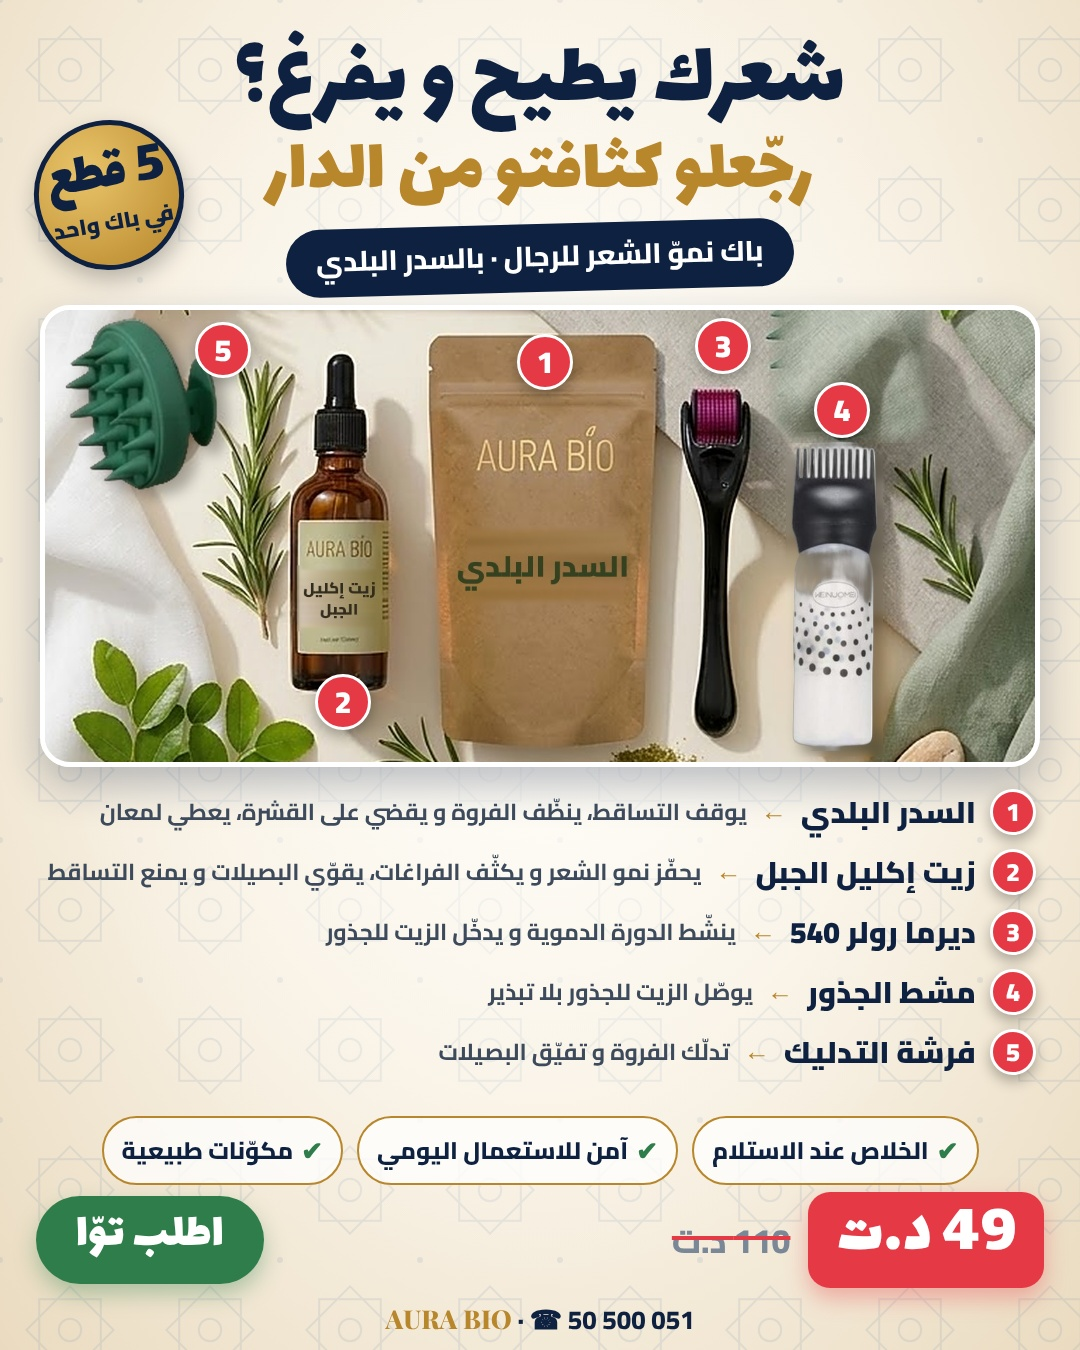
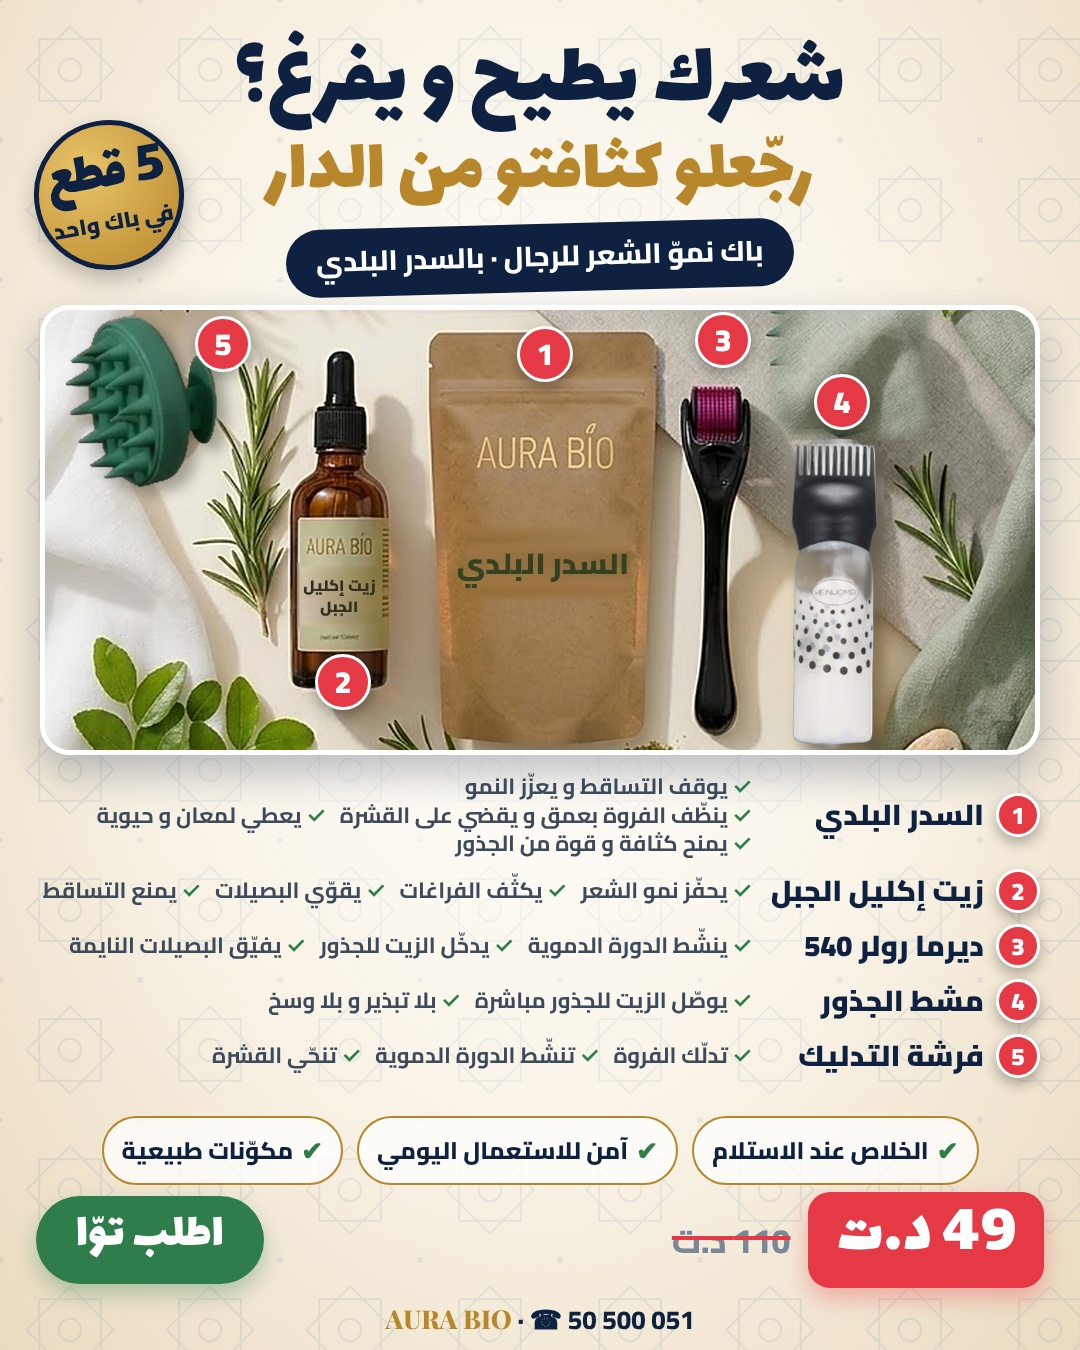
Real-kit static: full benefit list per product (check marks), photo resized to fit
Claude-Session: https://claude.ai/code/session_01FhwxWW9SZQzQKUB1AtjoA4

diff --git a/src/statics/RealPackAd.tsx b/src/statics/RealPackAd.tsx
@@ -421,7 +421,7 @@ const KitPhoto: React.FC = () => (
     style={{
       position: "relative",
       margin: "0 40px",
-      height: 462,
+      height: 450,
       borderRadius: 30,
       overflow: "hidden",
       border: `5px solid ${colors.white}`,
@@ -445,11 +445,41 @@ const KitPhoto: React.FC = () => (
 
 // The 5 pieces: number, name, benefit, and where the number sits on the photo
 const KIT_ITEMS = [
-  { n: 1, name: "السدر البلدي", benefit: "يوقف التساقط، ينظّف الفروة و يقضي على القشرة، يعطي لمعان", x: 500, y: 52 },
-  { n: 2, name: "زيت إكليل الجبل", benefit: "يحفّز نمو الشعر و يكثّف الفراغات، يقوّي البصيلات و يمنع التساقط", x: 298, y: 392 },
-  { n: 3, name: "ديرما رولر 540", benefit: "ينشّط الدورة الدموية و يدخّل الزيت للجذور", x: 678, y: 36 },
-  { n: 4, name: "مشط الجذور", benefit: "يوصّل الزيت للجذور بلا تبذير", x: 797, y: 100 },
-  { n: 5, name: "فرشة التدليك", benefit: "تدلّك الفروة و تفيّق البصيلات", x: 178, y: 40 },
+  {
+    n: 1,
+    name: "السدر البلدي",
+    benefits: ["يوقف التساقط و يعزّز النمو", "ينظّف الفروة بعمق و يقضي على القشرة", "يعطي لمعان و حيوية", "يمنح كثافة و قوة من الجذور"],
+    x: 500,
+    y: 44,
+  },
+  {
+    n: 2,
+    name: "زيت إكليل الجبل",
+    benefits: ["يحفّز نمو الشعر", "يكثّف الفراغات", "يقوّي البصيلات", "يمنع التساقط"],
+    x: 298,
+    y: 372,
+  },
+  {
+    n: 3,
+    name: "ديرما رولر 540",
+    benefits: ["ينشّط الدورة الدموية", "يدخّل الزيت للجذور", "يفيّق البصيلات النايمة"],
+    x: 678,
+    y: 30,
+  },
+  {
+    n: 4,
+    name: "مشط الجذور",
+    benefits: ["يوصّل الزيت للجذور مباشرة", "بلا تبذير و بلا وسخ"],
+    x: 797,
+    y: 92,
+  },
+  {
+    n: 5,
+    name: "فرشة التدليك",
+    benefits: ["تدلّك الفروة", "تنشّط الدورة الدموية", "تنحّي القشرة"],
+    x: 178,
+    y: 34,
+  },
 ];
 
 const NumBadge: React.FC<{
@@ -487,39 +517,50 @@ const NumBadge: React.FC<{
 const KitList: React.FC = () => (
   <div
     style={{
-      margin: "0 44px",
+      margin: "0 40px",
       display: "flex",
       flexDirection: "column",
-      gap: 4,
+      gap: 11,
       direction: "rtl",
     }}
   >
     {KIT_ITEMS.map((k) => (
-      <div key={k.n} style={{ display: "flex", alignItems: "center", gap: 14 }}>
-        <NumBadge n={k.n} size={46} />
+      <div key={k.n} style={{ display: "flex", alignItems: "center", gap: 12 }}>
+        <NumBadge n={k.n} size={44} />
         <div
           style={{
+            width: 220,
+            flexShrink: 0,
             fontFamily: bodyFont,
             fontWeight: 900,
-            fontSize: 30,
+            fontSize: 29,
+            lineHeight: 1.1,
             color: NAVY,
             whiteSpace: "nowrap",
           }}
         >
           {k.name}
         </div>
-        <div style={{ color: GOLD, fontSize: 26, fontWeight: 900 }}>←</div>
         <div
           style={{
+            flex: 1,
+            display: "flex",
+            flexWrap: "wrap",
+            columnGap: 14,
+            rowGap: 0,
             fontFamily: bodyFont,
             fontWeight: 700,
-            fontSize: 23,
-            lineHeight: 1.2,
+            fontSize: 22,
+            lineHeight: 1.3,
             color: "#3D4A5C",
-            flex: 1,
           }}
         >
-          {k.benefit}
+          {k.benefits.map((b) => (
+            <span key={b} style={{ whiteSpace: "nowrap" }}>
+              <span style={{ color: GREEN, fontWeight: 900 }}>✓ </span>
+              {b}
+            </span>
+          ))}
         </div>
       </div>
     ))}
@@ -594,7 +635,7 @@ const Card: React.FC<{ readonly variant: Variant }> = ({ variant }) => (
         <div style={{ position: "absolute", top: 305, left: 0, right: 0 }}>
           <KitPhoto />
         </div>
-        <div style={{ position: "absolute", top: 784, left: 0, right: 0 }}>
+        <div style={{ position: "absolute", top: 772, left: 0, right: 0 }}>
           <KitList />
         </div>
       </>
